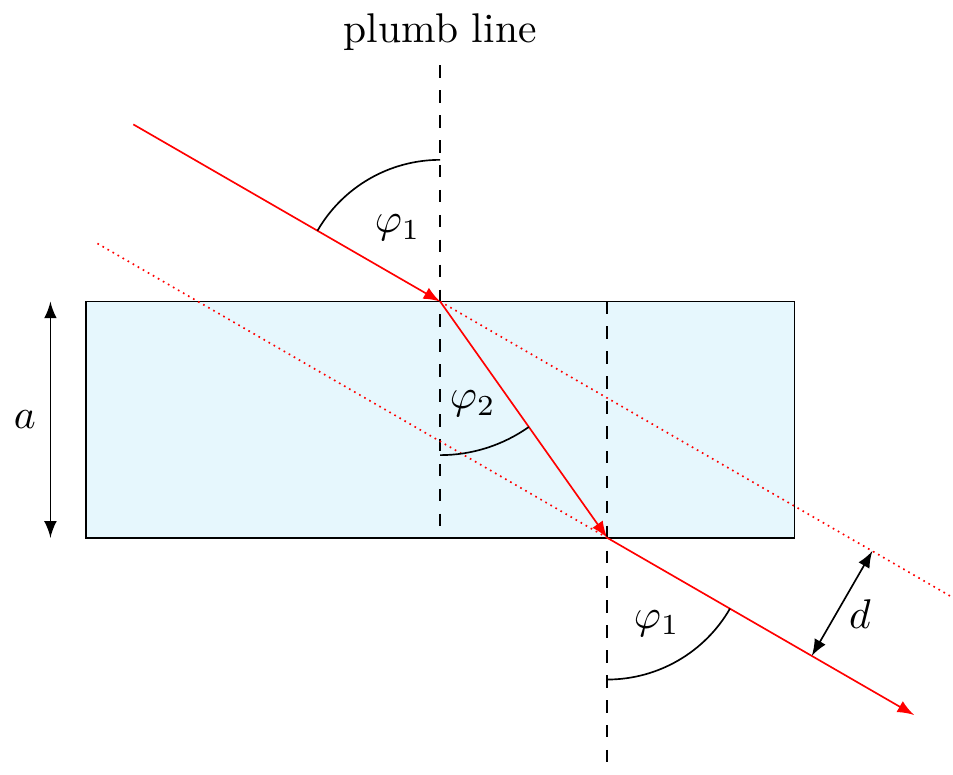
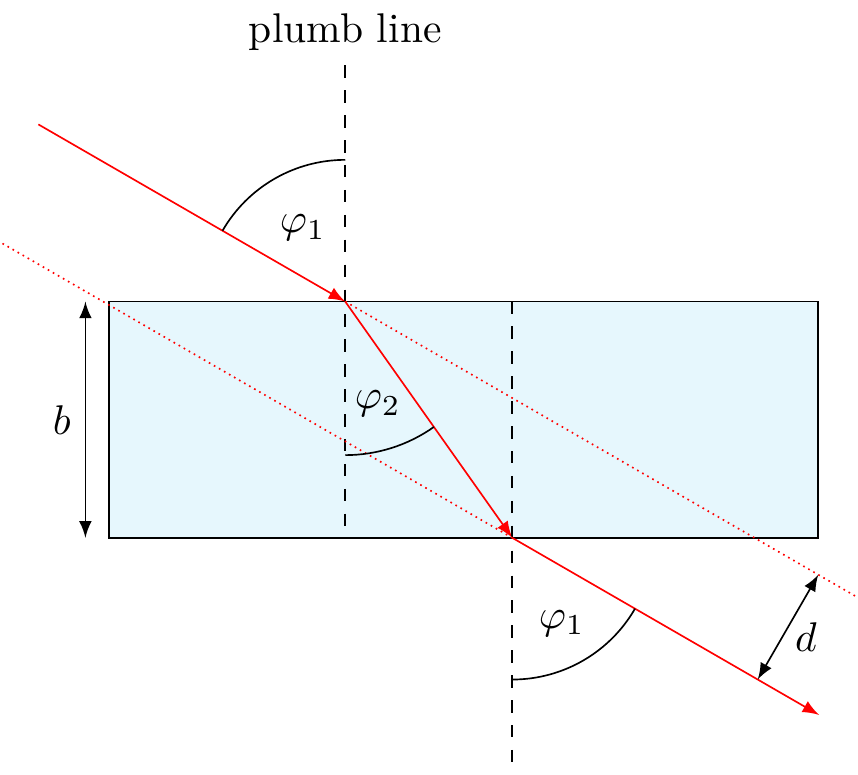
improve spacing code

diff --git a/optics/parallel-displacement-prism/parallel-displacement-prism_inverted.tex b/optics/parallel-displacement-prism/parallel-displacement-prism_inverted.tex
@@ -16,13 +16,13 @@
 \begin{tikzpicture}[inverted,inverted]
   \pgfmathsetmacro{\Width}{6};
   \pgfmathsetmacro{\Height}{2};
+  \pgfmathsetmacro{\AngleA}{60};
   \pgfmathsetmacro{\RefractionindexA}{1};
   \pgfmathsetmacro{\RefractionindexB}{1.5};
-  \pgfmathsetmacro{\AngleA}{60};
   \pgfmathsetmacro{\AngleB}{asin(\RefractionindexA*sin(\AngleA)/\RefractionindexB)};
   \pgfmathsetmacro{\ParallelDistance}{\Height*sin(\AngleA-\AngleB)/cos(\AngleB)};
   % 
-  \draw[fill=cyan!10] ({-\Width/2},0) rectangle ({\Width/2},{-\Height});
+  \draw[fill=cyan!10] ({-\Width/2+1},0) coordinate (BL) rectangle ++ ({\Width},{-\Height});
   \coordinate (O) at (0,0);
   \draw[dashed] (0,{\Height}) coordinate (LA) node[above] {plumb line} -- ++ (0,{-2*\Height}) coordinate (LD);
   \draw[->,red] ({90+\AngleA}:{\Width/2}) coordinate (A) -- (O);
@@ -31,9 +31,9 @@
   \draw[->,red] (B) -- ++({-90+\AngleA}:{\Width/2}) coordinate (C);
   \draw[densely dotted,red] (B) -- ++ ({90+\AngleA}:5) coordinate (P);
   \draw[densely dotted,red] (O) -- ++ ({-90+\AngleA}:5);
-  \draw[<->] ({-\Width/2*1.1},0) -- ++(0,{-\Height}) node[midway,left] {$a$};
+  \draw[<->] (BL)++(-0.2,0) -- ++(0,{-\Height}) node[midway,left] {$b$};
   % 
-  \draw[<->] (B)++({-90+\AngleA}:{\Width/3}) coordinate (D1) -- ++({\AngleA}:{\ParallelDistance}) coordinate (D2)node at ($(D1)!0.5!(D2)!-0.5em!90:(D2)$) {$d$};
+  \draw[<->] (B)++({-90+\AngleA}:{\Width*0.4}) coordinate (D1) -- ++({\AngleA}:{\ParallelDistance}) coordinate (D2) node at ($(D1)!0.5!(D2)!-0.5em!90:(D2)$) {$d$};
   % 
   \pic[draw,angle radius=1.2cm,pic text={$\varphi_1$},angle eccentricity=0.6] {angle = LA--O--A};
   \pic[draw,angle radius=1.3cm,pic text={$\varphi_2$},angle eccentricity=0.7] {angle = LD--O--B};

diff --git a/optics/parallel-displacement-prism/parallel-displacement-prism.tex b/optics/parallel-displacement-prism/parallel-displacement-prism.tex
@@ -7,13 +7,13 @@
 \begin{tikzpicture}
   \pgfmathsetmacro{\Width}{6};
   \pgfmathsetmacro{\Height}{2};
+  \pgfmathsetmacro{\AngleA}{60};
   \pgfmathsetmacro{\RefractionindexA}{1};
   \pgfmathsetmacro{\RefractionindexB}{1.5};
-  \pgfmathsetmacro{\AngleA}{60};
   \pgfmathsetmacro{\AngleB}{asin(\RefractionindexA*sin(\AngleA)/\RefractionindexB)};
   \pgfmathsetmacro{\ParallelDistance}{\Height*sin(\AngleA-\AngleB)/cos(\AngleB)};
   % 
-  \draw[fill=cyan!10] ({-\Width/2},0) rectangle ({\Width/2},{-\Height});
+  \draw[fill=cyan!10] ({-\Width/2+1},0) coordinate (BL) rectangle ++ ({\Width},{-\Height});
   \coordinate (O) at (0,0);
   \draw[dashed] (0,{\Height}) coordinate (LA) node[above] {plumb line} -- ++ (0,{-2*\Height}) coordinate (LD);
   \draw[->,red] ({90+\AngleA}:{\Width/2}) coordinate (A) -- (O);
@@ -22,9 +22,9 @@
   \draw[->,red] (B) -- ++({-90+\AngleA}:{\Width/2}) coordinate (C);
   \draw[densely dotted,red] (B) -- ++ ({90+\AngleA}:5) coordinate (P);
   \draw[densely dotted,red] (O) -- ++ ({-90+\AngleA}:5);
-  \draw[<->] ({-\Width/2*1.1},0) -- ++(0,{-\Height}) node[midway,left] {$a$};
+  \draw[<->] (BL)++(-0.2,0) -- ++(0,{-\Height}) node[midway,left] {$b$};
   % 
-  \draw[<->] (B)++({-90+\AngleA}:{\Width/3}) coordinate (D1) -- ++({\AngleA}:{\ParallelDistance}) coordinate (D2)node at ($(D1)!0.5!(D2)!-0.5em!90:(D2)$) {$d$};
+  \draw[<->] (B)++({-90+\AngleA}:{\Width*0.4}) coordinate (D1) -- ++({\AngleA}:{\ParallelDistance}) coordinate (D2) node at ($(D1)!0.5!(D2)!-0.5em!90:(D2)$) {$d$};
   % 
   \pic[draw,angle radius=1.2cm,pic text={$\varphi_1$},angle eccentricity=0.6] {angle = LA--O--A};
   \pic[draw,angle radius=1.3cm,pic text={$\varphi_2$},angle eccentricity=0.7] {angle = LD--O--B};
